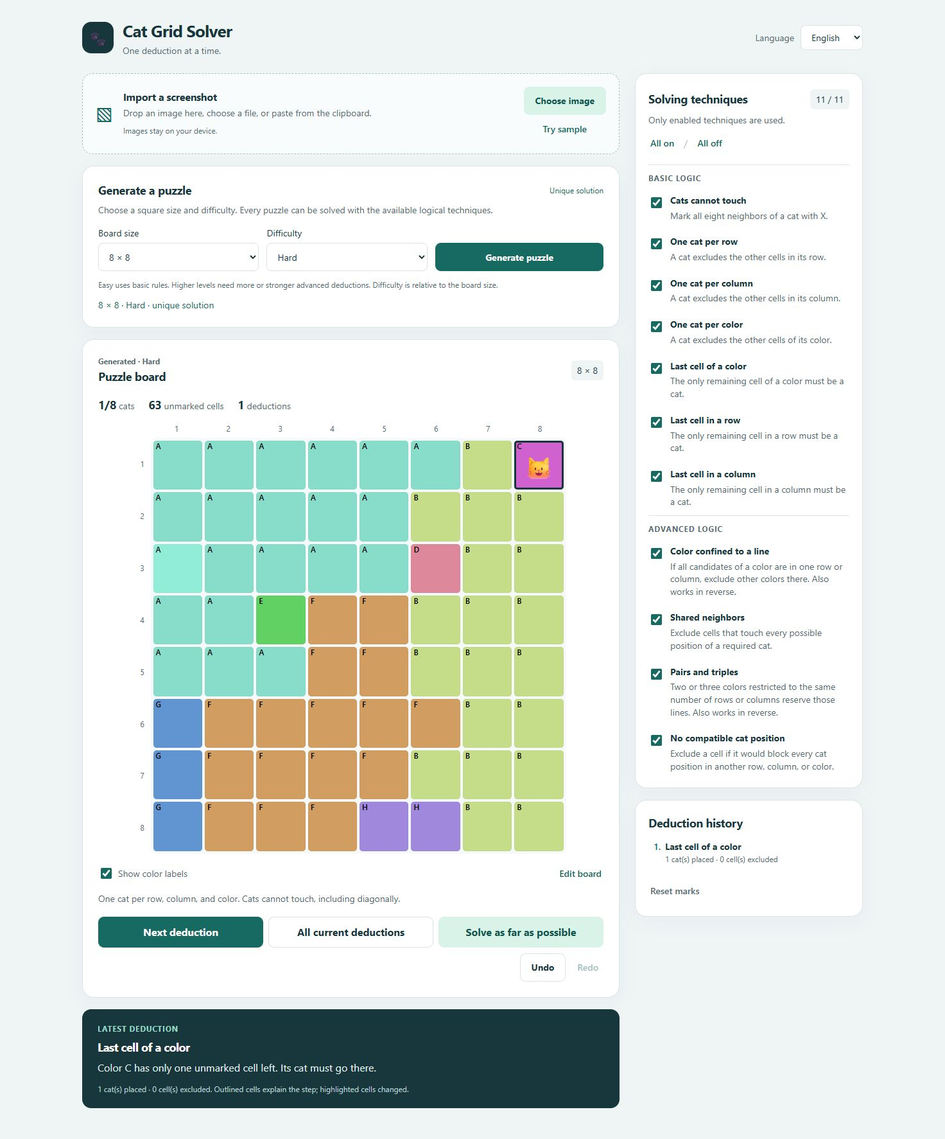
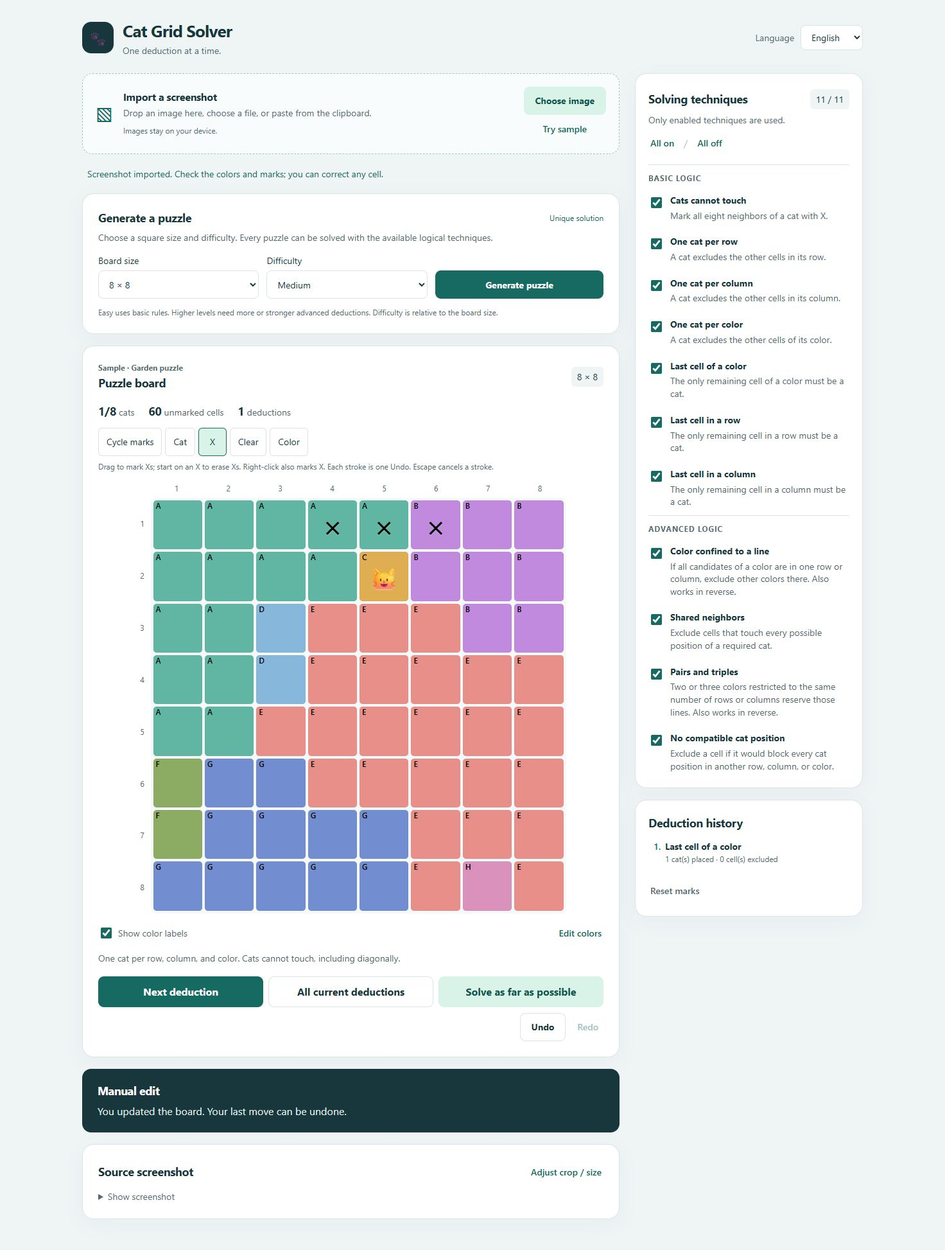
Add drag marking and visible board input tools

diff --git a/dist/app.js b/dist/app.js
@@ -2,6 +2,7 @@ import { example, cloneBoard } from './example.js';
 import { techniques, findNextDeduction, applyDeduction, validateBoard, resolveCurrent, resolveUntilStuck } from './solver.js';
 import { translate, colorLetter, unitName, explain } from './i18n.js';
 import { registerAgentTools } from './webmcp.js';
+import { cellsAlongSegment, applyBrush } from './board-input.js';
 
 const $ = selector => document.querySelector(selector);
 let language = 'en';
@@ -16,6 +17,7 @@ let editing = false, tool = 'cycle', selectedColor = 0, uncertain = new Set();
 let undoStack = [], redoStack = [], source = null, busy = false;
 let generationTask = null;
 let cropSelection = null, cropStart = null;
+let pointerStroke = null, strokeFrame = null;
 const t = (key, values) => translate(language, key, values);
 const techniqueName = id => techniques.find(technique => technique.id === id)?.name[language === 'de' ? 1 : 0] || id;
 
@@ -65,30 +67,33 @@ function setGenerationStatus(key, values = {}, error = false) {
 }
 
 function renderBoard() {
+  const shownBoard = pointerStroke?.draft || board;
   const activeCell = document.activeElement?.dataset?.index;
   const element = $('#board');
-  element.style.setProperty('--size', board.size);
+  element.style.setProperty('--size', shownBoard.size);
+  element.classList.toggle('is-dragging', Boolean(pointerStroke?.dragging));
   element.classList.toggle('no-labels', !$('#color-labels').checked);
   element.setAttribute('aria-label', t('board'));
-  element.setAttribute('aria-rowcount', board.size);
-  element.setAttribute('aria-colcount', board.size);
+  element.setAttribute('aria-rowcount', shownBoard.size);
+  element.setAttribute('aria-colcount', shownBoard.size);
   const changes = new Set(currentStep?.changes.map(change => change.index) || []);
   const evidence = new Set(currentStep?.evidence || []);
-  const validation = validateBoard(board);
+  const validation = validateBoard(shownBoard);
   const conflictCells = new Set(validation.valid ? [] : validation.cells);
   element.replaceChildren();
-  for (let rowIndex = 0; rowIndex < board.size; rowIndex++) {
+  for (let rowIndex = 0; rowIndex < shownBoard.size; rowIndex++) {
     const row = document.createElement('div'); row.className = 'board-row'; row.setAttribute('role','row');
-    for (let columnIndex = 0; columnIndex < board.size; columnIndex++) {
-      const i = rowIndex * board.size + columnIndex, region = board.regions[i], mark = board.marks[i];
+    for (let columnIndex = 0; columnIndex < shownBoard.size; columnIndex++) {
+      const i = rowIndex * shownBoard.size + columnIndex, region = shownBoard.regions[i], mark = shownBoard.marks[i];
       const cell = document.createElement('button');
       cell.type = 'button'; cell.className = 'cell'; cell.dataset.index = i;
-      cell.style.setProperty('--cell-color', board.colors[region]);
-      cell.style.setProperty('--cell-ink', textInk(board.colors[region]));
+      cell.style.setProperty('--cell-color', shownBoard.colors[region]);
+      cell.style.setProperty('--cell-ink', textInk(shownBoard.colors[region]));
       cell.setAttribute('role', 'gridcell'); cell.setAttribute('aria-rowindex', rowIndex + 1); cell.setAttribute('aria-colindex', columnIndex + 1);
       cell.setAttribute('aria-label', `${t('cell', { r: rowIndex + 1, c: columnIndex + 1 })}, ${t('colorName', { n: colorLetter(region) })}, ${t(mark === 1 ? 'catMark' : mark === -1 ? 'xMark' : 'emptyMark')}`);
       cell.tabIndex = activeCell != null ? (Number(activeCell) === i ? 0 : -1) : i === 0 ? 0 : -1;
       cell.classList.toggle('changed', changes.has(i)); cell.classList.toggle('evidence', evidence.has(i) && !changes.has(i));
+      cell.classList.toggle('drag-preview', Boolean(pointerStroke?.changed.has(i)));
       cell.classList.toggle('uncertain', uncertain.has(i)); cell.classList.toggle('conflict', conflictCells.has(i));
       const label = document.createElement('span'); label.className = 'color-letter'; label.textContent = colorLetter(region); label.setAttribute('aria-hidden','true');
       const symbol = document.createElement('span'); symbol.className = `mark${mark === -1 ? ' x-mark' : ''}`; symbol.textContent = mark === 1 ? '🐱' : mark === -1 ? '×' : ''; symbol.setAttribute('aria-hidden','true');
@@ -97,8 +102,8 @@ function renderBoard() {
     element.append(row);
   }
   for (const selector of ['#row-labels', '#column-labels']) {
-    const labels = $(selector); labels.style.setProperty('--size', board.size); labels.replaceChildren();
-    for (let i = 1; i <= board.size; i++) { const label = document.createElement('span'); label.textContent = i; labels.append(label); }
+    const labels = $(selector); labels.style.setProperty('--size', shownBoard.size); labels.replaceChildren();
+    for (let i = 1; i <= shownBoard.size; i++) { const label = document.createElement('span'); label.textContent = i; labels.append(label); }
   }
   if (activeCell != null) element.querySelector(`[data-index="${activeCell}"]`)?.focus({ preventScroll: true });
 }
@@ -120,11 +125,13 @@ function renderTechniques() {
 }
 
 function renderTools() {
+  const hintKey = {cat:'catInputHint',erase:'clearInputHint',paint:'colorInputHint'}[tool] || 'inputHint';
+  $('#input-help').dataset.i18n = hintKey; $('#input-help').textContent = t(hintKey);
   $('#edit-toggle').setAttribute('aria-expanded', editing);
   $('#edit-panel').hidden = !editing;
   $('#tools').replaceChildren();
   for (const [id, key] of [['cycle','cycle'],['cat','catTool'],['x','xTool'],['erase','erase'],['paint','paint']]) {
-    const button = document.createElement('button'); button.className = 'tool-button'; button.dataset.tool = id; button.textContent = t(key); button.setAttribute('aria-pressed', tool === id); $('#tools').append(button);
+    const button = document.createElement('button'); button.type = 'button'; button.className = 'tool-button'; button.dataset.tool = id; button.textContent = t(key); button.setAttribute('aria-pressed', tool === id); button.disabled = busy; $('#tools').append(button);
   }
   $('#palette').hidden = tool !== 'paint'; $('#palette').replaceChildren();
   board.colors.forEach((color, index) => {
@@ -203,6 +210,7 @@ function render() {
 }
 
 async function generateGame(options = {}) {
+  cancelStroke();
   if (busy) return {status:'busy'};
   const size = options.size ?? Number($('#generator-size').value), difficulty = options.difficulty ?? $('#generator-difficulty').value;
   if (!Number.isInteger(size) || size < 4 || size > 20 || !['easy','medium','hard','extreme'].includes(difficulty)) {
@@ -237,6 +245,7 @@ async function generateGame(options = {}) {
 }
 
 function nextDeduction() {
+  cancelStroke();
   if (busy) return { status: 'busy' };
   if (uncertain.size) {
     message = { title: 'reviewTitle', body: 'uncertain', values: { count: uncertain.size } }; currentStep = null; render(); return { status: 'review', count: uncertain.size };
@@ -250,6 +259,7 @@ function nextDeduction() {
 }
 
 async function applyDeductions(mode = 'current') {
+  cancelStroke();
   if (busy) return { status: 'busy' };
   if (uncertain.size || !enabled.size) return nextDeduction();
   busy = true; setStatus(mode === 'until' ? 'runWorking' : 'allWorking'); render();
@@ -269,8 +279,9 @@ async function applyDeductions(mode = 'current') {
 
 function editCell(index, forcedTool) {
   if (busy || !Number.isInteger(index) || index < 0 || index >= board.marks.length) return;
-  const currentTool = forcedTool || (editing ? tool : 'cycle');
-  const nextMark = currentTool === 'cycle' ? board.marks[index] === 0 ? 1 : board.marks[index] === 1 ? -1 : 0 : currentTool === 'cat' ? 1 : currentTool === 'x' ? -1 : 0;
+  const currentTool = forcedTool || tool;
+  if (currentTool === 'x' && !forcedTool && board.marks[index] === 1) return;
+  const nextMark = currentTool === 'cycle' ? board.marks[index] === 0 ? 1 : board.marks[index] === 1 ? -1 : 0 : currentTool === 'cat' ? 1 : currentTool === 'x' ? !forcedTool && board.marks[index] === -1 ? 0 : -1 : 0;
   if (currentTool === 'paint' ? board.regions[index] === selectedColor : board.marks[index] === nextMark && !uncertain.has(index)) return;
   record({ manual: true }); board = cloneBoard(board);
   if (currentTool === 'paint') {
@@ -281,10 +292,12 @@ function editCell(index, forcedTool) {
 }
 
 function undo() {
+  if (pointerStroke) { cancelStroke(); return true; }
   if (busy || !undoStack.length) return false;
   const entry = undoStack.pop(); redoStack.push({ state: snapshot(), entry }); restore(entry.before); render(); return true;
 }
 function redo() {
+  cancelStroke();
   if (busy || !redoStack.length) return false;
   const entry = redoStack.pop(); undoStack.push(entry.entry); restore(entry.state); render(); return true;
 }
@@ -305,16 +318,97 @@ $('#technique-list').addEventListener('change', event => {
   persistTechniques(); message = null; renderTechniques(); renderDeduction();
 });
 for (const [id, on] of [['all-on',true],['all-off',false]]) $(`#${id}`).addEventListener('click', () => { enabled = new Set(on ? techniques.map(technique => technique.id) : []); persistTechniques(); message = null; renderTechniques(); renderDeduction(); });
-$('#edit-toggle').addEventListener('click', () => { editing = !editing; renderTools(); });
-$('#tools').addEventListener('click', event => { const button = event.target.closest('[data-tool]'); if (button) { tool = button.dataset.tool; renderTools(); } });
+$('#edit-toggle').addEventListener('click', () => { editing = !editing; tool = editing ? 'paint' : 'cycle'; renderTools(); });
+$('#tools').addEventListener('click', event => { const button = event.target.closest('[data-tool]'); if (button && !busy) { tool = button.dataset.tool; editing = tool === 'paint'; renderTools(); } });
 $('#palette').addEventListener('click', event => {
   if(busy)return;
   const button = event.target.closest('[data-color]'); if (button) { selectedColor = Number(button.dataset.color); renderTools(); }
   if(event.target.closest('[data-add-color]')) { const color=$('#new-color').value;record({manual:true});board=cloneBoard(board);selectedColor=board.colors.length;board.colors.push(color);currentStep=null;message={title:'manualTitle',body:'manual'};render(); }
 });
 $('#color-labels').addEventListener('change', renderBoard);
-$('#board').addEventListener('click', event => { const cell = event.target.closest('[data-index]'); if (cell) editCell(Number(cell.dataset.index)); });
+// Pointer gestures handle mouse, pen, and touch. Keep native keyboard/AT clicks.
+$('#board').addEventListener('click', event => { const cell = event.target.closest('[data-index]'); if (cell && event.detail === 0) editCell(Number(cell.dataset.index)); });
+$('#board').addEventListener('contextmenu', event => event.preventDefault());
+$('#board').addEventListener('dragstart', event => event.preventDefault());
+
+function point(event) { return {x:event.clientX,y:event.clientY}; }
+function cellAtPoint(position,rectangles) {
+  return rectangles.find(cell => position.x>=cell.left && position.x<=cell.right && position.y>=cell.top && position.y<=cell.bottom)?.index;
+}
+function previewStroke(indices) {
+  if (!pointerStroke?.brush) return;
+  const fresh = indices.filter(index => !pointerStroke.visited.has(index));
+  if (!fresh.length) return;
+  fresh.forEach(index => pointerStroke.visited.add(index));
+  const result = applyBrush(pointerStroke.draft,fresh,pointerStroke.brush);
+  pointerStroke.draft = result.board;
+  result.changed.forEach(index => pointerStroke.changed.add(index));
+  result.reviewed.forEach(index => pointerStroke.reviewed.add(index));
+  if (strokeFrame === null) strokeFrame = requestAnimationFrame(() => { strokeFrame = null; renderBoard(); });
+}
+function releaseStroke(stroke) {
+  if (strokeFrame !== null) { cancelAnimationFrame(strokeFrame); strokeFrame = null; }
+  const grid = $('#board');
+  if (grid.hasPointerCapture(stroke.pointerId)) grid.releasePointerCapture(stroke.pointerId);
+}
+function cancelStroke() {
+  if (!pointerStroke) return;
+  const stroke = pointerStroke; pointerStroke = null; releaseStroke(stroke); renderBoard();
+}
+$('#board').addEventListener('pointerdown', event => {
+  const cell = event.target.closest('[data-index]');
+  if (!cell || busy || pointerStroke || !event.isPrimary || ![0,2].includes(event.button)) return;
+  event.preventDefault();
+  const index = Number(cell.dataset.index), selectedTool = event.button === 2 ? 'x' : tool;
+  const brush = ['x','erase','paint'].includes(selectedTool) ? {tool:selectedTool,value:board.marks[index]===-1?0:-1,color:selectedColor} : null;
+  const rectangles = [...$('#board').querySelectorAll('.cell')].map(element => {
+    const rect = element.getBoundingClientRect();
+    return {index:Number(element.dataset.index),left:rect.left,right:rect.right,top:rect.top,bottom:rect.bottom};
+  });
+  pointerStroke = {pointerId:event.pointerId,tool:selectedTool,start:index,from:point(event),last:point(event),rectangles,brush,draft:board,visited:new Set(),changed:new Set(),reviewed:new Set(),dragging:false};
+  $('#board').querySelectorAll('.cell').forEach(element => { element.tabIndex = element === cell ? 0 : -1; });
+  cell.focus({preventScroll:true});
+  $('#board').setPointerCapture(event.pointerId);
+  if (brush) previewStroke([index]);
+});
+function moveStroke(event) {
+  const stroke = pointerStroke;
+  if (!stroke || event.pointerId !== stroke.pointerId) return;
+  const position = point(event);
+  if (!stroke.dragging && Math.hypot(position.x-stroke.from.x,position.y-stroke.from.y)>=8) {
+    stroke.dragging = true;
+    if (stroke.tool === 'cycle') {
+      stroke.brush = {tool:'x',value:board.marks[stroke.start]===-1?0:-1};
+      previewStroke([stroke.start]);
+    }
+  }
+  if (stroke.brush) previewStroke(cellsAlongSegment(stroke.last,position,stroke.rectangles));
+  stroke.last = position;
+  if (stroke.dragging && event.type === 'pointermove' && event.cancelable) event.preventDefault();
+}
+document.addEventListener('pointermove', moveStroke);
+document.addEventListener('pointerup', event => {
+  const stroke = pointerStroke;
+  if (!stroke || event.pointerId !== stroke.pointerId) return;
+  moveStroke(event);
+  pointerStroke = null; releaseStroke(stroke);
+  if (stroke.brush) {
+    const reviewed = [...stroke.reviewed].filter(index => uncertain.has(index));
+    if (stroke.changed.size || reviewed.length) {
+      record({manual:true}); board = stroke.draft;
+      reviewed.forEach(index => uncertain.delete(index));
+      currentStep = null; message = {title:'manualTitle',body:'manual'};
+    }
+    render();
+  } else if (!stroke.dragging && cellAtPoint(point(event),stroke.rectangles) === stroke.start) editCell(stroke.start,stroke.tool);
+  else renderBoard();
+});
+document.addEventListener('pointercancel', event => { if (event.pointerId === pointerStroke?.pointerId) cancelStroke(); });
+$('#board').addEventListener('lostpointercapture', event => { if (event.pointerId === pointerStroke?.pointerId) cancelStroke(); });
+window.addEventListener('blur', cancelStroke);
+window.addEventListener('scroll', cancelStroke, true);
 $('#board').addEventListener('keydown', event => {
+  if (pointerStroke) return;
   const cell = event.target.closest('[data-index]'); if (!cell) return;
   const index = Number(cell.dataset.index), r = Math.floor(index / board.size), c = index % board.size;
   const destination = { ArrowLeft: r * board.size + Math.max(0,c-1), ArrowRight: r * board.size + Math.min(board.size-1,c+1), ArrowUp: Math.max(0,r-1)*board.size+c, ArrowDown: Math.min(board.size-1,r+1)*board.size+c }[event.key];
@@ -322,6 +416,7 @@ $('#board').addEventListener('keydown', event => {
   else if ([' ','c','C','x','X','Delete','Backspace'].includes(event.key)) { event.preventDefault(); editCell(index, event.key === ' ' ? 'cycle' : ['c','C'].includes(event.key) ? 'cat' : ['x','X'].includes(event.key) ? 'x' : 'erase'); }
 });
 document.addEventListener('keydown', event => {
+  if (event.key === 'Escape' && pointerStroke) { event.preventDefault(); cancelStroke(); return; }
   if ((event.ctrlKey || event.metaKey) && event.key.toLowerCase() === 'z' && !event.target.matches('input,textarea,select') && !document.querySelector('dialog[open]')) { event.preventDefault(); event.shiftKey ? redo() : undo(); }
 });
 $('#reset').addEventListener('click', () => $('#reset-dialog').showModal());
@@ -329,6 +424,7 @@ $('#reset-confirm').addEventListener('click', () => { record({ reset: true }); b
 
 // Image recognition is loaded only when importing; no server receives image data.
 async function importImage(input, sample = false, crop = null, forcedSize = 0) {
+  cancelStroke();
   if (busy) return;
   if (input instanceof File && (!/^image\/(png|jpeg|webp)$/.test(input.type))) { setStatus('fileError', {}, true); return; }
   if (input instanceof Blob && input.size > 25 * 1024 * 1024) { setStatus('tooLarge', {}, true); return; }
@@ -403,10 +499,12 @@ export const appActions = {
   read: () => ({ board: cloneBoard(board), enabled: [...enabled], language, uncertain: [...uncertain], validation: validateBoard(board) }),
   next: nextDeduction, all: () => applyDeductions('current'), run: () => applyDeductions('until'), undo, generate: generateGame,
   configure(ids) {
+    cancelStroke();
     if (!Array.isArray(ids) || ids.some(id => !techniques.some(technique => technique.id === id))) throw new Error('Unknown technique');
     enabled = new Set(ids); persistTechniques(); render(); return { enabled: [...enabled] };
   },
   edit(cells) {
+    cancelStroke();
     if (!Array.isArray(cells) || cells.some(cell => !Number.isInteger(cell.index) || cell.index < 0 || cell.index >= board.marks.length || ![0,1,-1].includes(cell.mark))) throw new Error('Invalid cell edit');
     if (busy) throw new Error('Image import in progress');
     record({ manual: true }); board = cloneBoard(board);

diff --git a/dist/i18n.js b/dist/i18n.js
@@ -12,10 +12,12 @@ export const copy = {
     explanation: 'Latest deduction', evidence: 'Outlined cells explain the step; highlighted cells changed.',
     stuckTitle: 'No deduction available', stuck: 'The enabled techniques cannot make progress. Enable more techniques or check the imported board. No guessing is used.',
     offTitle: 'Choose a technique', off: 'Enable at least one solving technique to continue.', solvedTitle: 'Every cat has a home!', solved: 'The board satisfies all three rules.',
-    edit: 'Edit board', editing: 'Editing board', cycle: 'Cycle marks', catTool: 'Cat', xTool: 'X', erase: 'Clear', paint: 'Color', color: 'Color', labels: 'Show color labels',
+    edit: 'Edit colors', editing: 'Editing board', cycle: 'Cycle marks', catTool: 'Cat', xTool: 'X', erase: 'Clear', paint: 'Color', color: 'Color', labels: 'Show color labels',
+    inputTools: 'Board input tools', inputHint: 'Drag to mark Xs; start on an X to erase Xs. Right-click also marks X. Each stroke is one Undo. Escape cancels a stroke.',
+    catInputHint: 'Click or tap to place a cat. Dragging does not place extra cats. Right-click marks X.', clearInputHint: 'Drag or swipe to clear marks, including cats. Each stroke is one Undo. Escape cancels a stroke.', colorInputHint: 'Choose a color below, then drag or swipe to paint its region. Each stroke is one Undo. Escape cancels a stroke.',
     rules: 'One cat per row, column, and color. Cats cannot touch, including diagonally.',
     manualTitle: 'Manual edit', manual: 'You updated the board. Your last move can be undone.',
-    invalidTitle: 'Check the board', invalidBoard: 'The board data is invalid.', colorCount: 'Expected {expected} colors, but found {count}. Use Edit board to correct the color regions.', catConflict: 'Two cats share a row, column, or color, or touch each other. Correct the highlighted cats.', noCandidate: '{unit} has no legal position left for a cat. Check X marks and nearby cats.',
+    invalidTitle: 'Check the board', invalidBoard: 'The board data is invalid.', colorCount: 'Expected {expected} colors, but found {count}. Use Edit colors to correct the color regions.', catConflict: 'Two cats share a row, column, or color, or touch each other. Correct the highlighted cats.', noCandidate: '{unit} has no legal position left for a cat. Check X marks and nearby cats.',
     changed: '{cats} cat(s) placed · {crosses} cell(s) excluded', row: 'Row {n}', column: 'Column {n}', region: 'Color {n}', cell: 'row {r}, column {c}', emptyMark: 'empty', catMark: 'cat', xMark: 'X',
     touch: 'The cat at {cell} rules out all neighboring cells, including diagonals.',
     catUnit: 'There is already a cat in {unit}. Every other cell in it must be X.',
@@ -46,10 +48,12 @@ export const copy = {
     explanation: 'Letzter Lösungsschritt', evidence: 'Umrandete Felder erklären den Schritt; hervorgehobene Felder wurden geändert.',
     stuckTitle: 'Kein Lösungsschritt verfügbar', stuck: 'Die aktiven Techniken kommen nicht weiter. Aktiviere weitere Techniken oder prüfe das importierte Feld. Es wird nicht geraten.',
     offTitle: 'Technik auswählen', off: 'Aktiviere mindestens eine Lösungstechnik, um fortzufahren.', solvedTitle: 'Jede Katze hat ein Zuhause!', solved: 'Das Spielfeld erfüllt alle drei Regeln.',
-    edit: 'Spielfeld bearbeiten', editing: 'Spielfeld bearbeiten', cycle: 'Markierung wechseln', catTool: 'Katze', xTool: 'X', erase: 'Leeren', paint: 'Farbe', color: 'Farbe', labels: 'Farbbuchstaben anzeigen',
+    edit: 'Farben bearbeiten', editing: 'Spielfeld bearbeiten', cycle: 'Markierung wechseln', catTool: 'Katze', xTool: 'X', erase: 'Leeren', paint: 'Farbe', color: 'Farbe', labels: 'Farbbuchstaben anzeigen',
+    inputTools: 'Eingabewerkzeuge für das Spielfeld', inputHint: 'Ziehen markiert X; starte auf einem X, um X zu entfernen. Rechtsklick setzt ebenfalls X. Ein Zug ist ein Rückgängig-Schritt. Escape bricht einen Zug ab.',
+    catInputHint: 'Klicken oder Tippen setzt eine Katze. Ziehen setzt keine weiteren Katzen. Rechtsklick markiert X.', clearInputHint: 'Ziehen oder Wischen entfernt Markierungen, auch Katzen. Ein Zug ist ein Rückgängig-Schritt. Escape bricht einen Zug ab.', colorInputHint: 'Wähle unten eine Farbe und male ihre Fläche durch Ziehen oder Wischen. Ein Zug ist ein Rückgängig-Schritt. Escape bricht einen Zug ab.',
     rules: 'Eine Katze pro Zeile, Spalte und Farbe. Katzen dürfen sich nicht berühren, auch nicht diagonal.',
     manualTitle: 'Manuelle Änderung', manual: 'Du hast das Feld geändert. Die letzte Änderung kannst du rückgängig machen.',
-    invalidTitle: 'Spielfeld prüfen', invalidBoard: 'Die Daten des Spielfelds sind ungültig.', colorCount: 'Es werden {expected} Farben erwartet, aber {count} wurden erkannt. Korrigiere die Farbflächen über „Spielfeld bearbeiten“.', catConflict: 'Zwei Katzen teilen eine Zeile, Spalte oder Farbe oder berühren sich. Korrigiere die hervorgehobenen Katzen.', noCandidate: '{unit} hat keinen gültigen Platz für eine Katze mehr. Prüfe X-Markierungen und benachbarte Katzen.',
+    invalidTitle: 'Spielfeld prüfen', invalidBoard: 'Die Daten des Spielfelds sind ungültig.', colorCount: 'Es werden {expected} Farben erwartet, aber {count} wurden erkannt. Korrigiere die Farbflächen über „Farben bearbeiten“.', catConflict: 'Zwei Katzen teilen eine Zeile, Spalte oder Farbe oder berühren sich. Korrigiere die hervorgehobenen Katzen.', noCandidate: '{unit} hat keinen gültigen Platz für eine Katze mehr. Prüfe X-Markierungen und benachbarte Katzen.',
     changed: '{cats} Katze(n) gesetzt · {crosses} Feld(er) ausgeschlossen', row: 'Zeile {n}', column: 'Spalte {n}', region: 'Farbe {n}', cell: 'Zeile {r}, Spalte {c}', emptyMark: 'leer', catMark: 'Katze', xMark: 'X',
     touch: 'Die Katze in {cell} schließt alle benachbarten Felder aus, auch diagonal.',
     catUnit: 'In {unit} steht bereits eine Katze. Alle anderen Felder darin müssen X sein.',

diff --git a/dist/index.html b/dist/index.html
@@ -36,9 +36,10 @@
       <section class="board-card" aria-labelledby="board-title">
         <div class="board-header"><div><p class="eyebrow" id="board-name">Sample · Garden puzzle</p><h2 id="board-title" data-i18n="board">Puzzle board</h2></div><span class="size-badge" id="board-size">8 × 8</span></div>
         <div class="stats" id="stats"></div>
+        <div class="input-bar"><div class="tool-buttons" id="tools" role="group" aria-label="Board input tools" data-i18n-aria="inputTools"></div><p class="small-help" id="input-help" data-i18n="inputHint">Drag to mark Xs; start on an X to erase Xs. Right-click also marks X. Each stroke is one Undo.</p></div>
         <div class="board-wrap"><div class="column-labels" id="column-labels" aria-hidden="true"></div><div class="row-labels" id="row-labels" aria-hidden="true"></div><div class="board" id="board" role="grid" aria-label="Puzzle board"></div></div>
-        <div class="board-footer"><label class="compact-check"><input id="color-labels" type="checkbox" checked><span data-i18n="labels">Show color labels</span></label><button class="text-button" id="edit-toggle" aria-expanded="false" data-i18n="edit">Edit board</button></div>
-        <div class="edit-panel" id="edit-panel" hidden><div class="tool-buttons" id="tools"></div><div class="palette" id="palette" hidden></div><p class="small-help" data-i18n="helpKeyboard">Arrow keys move between cells. Space cycles a mark. C places a cat, X excludes a cell, Delete clears it.</p></div>
+        <div class="board-footer"><label class="compact-check"><input id="color-labels" type="checkbox" checked><span data-i18n="labels">Show color labels</span></label><button class="text-button" id="edit-toggle" aria-expanded="false" data-i18n="edit">Edit colors</button></div>
+        <div class="edit-panel" id="edit-panel" hidden><div class="palette" id="palette" hidden></div><p class="small-help" data-i18n="helpKeyboard">Arrow keys move between cells. Space cycles a mark. C places a cat, X excludes a cell, Delete clears it.</p></div>
         <p class="rule-line" data-i18n="rules">One cat per row, column, and color. Cats cannot touch, including diagonally.</p>
         <div class="board-actions"><div class="solve-buttons"><button class="button next-button" id="next" data-i18n="next">Next deduction</button><button class="button secondary bulk-button" id="apply-all" data-i18n="applyAll">All current deductions</button><button class="button primary-soft bulk-button" id="run" data-i18n="run">Solve as far as possible</button></div><div class="undo-buttons"><button class="button secondary" id="undo" disabled data-i18n="undo">Undo</button><button class="icon-button" id="redo" disabled data-i18n="redo">Redo</button></div></div>
       </section>

diff --git a/dist/styles.css b/dist/styles.css
@@ -54,6 +54,11 @@ select { border: 1px solid var(--line); background: white; border-radius: 8px; p
 .row-labels { grid-row: 2; display: grid; grid-template-rows: repeat(var(--size,10),1fr); align-items: center; text-align: center; color: var(--muted); font-size: .75rem; }
 .board { display: grid; grid-template-columns: repeat(var(--size,10),1fr); gap: 4px; aspect-ratio: 1; background: #f5f9f9; border-radius: 9px; padding: 4px; width: 100%; container-type: inline-size; }
 .board-row { display: contents; }
+.board { touch-action: none; user-select: none; -webkit-user-select: none; }
+.board.is-dragging .cell { cursor: crosshair; }
+.input-bar { margin: 0 0 14px; }
+.input-bar .small-help { margin-top: 7px; }
+.cell.drag-preview { box-shadow: inset 0 0 0 3px #176a62; }
 .cell { position: relative; border: 0; border-radius: 5px; background: var(--cell-color); aspect-ratio: 1; min-width: 0; padding: 0; display: grid; place-items: center; font-weight: 600; font-size: clamp(1rem,2.6vw,2rem); color: #15343d; transition: filter .15s; box-shadow: inset 0 0 0 1px #00000007; }
 .cell:hover { filter: brightness(1.07); }
 .cell .color-letter { position: absolute; top: 1px; left: 4px; font-size: .75rem; line-height: 1.3; color: var(--cell-ink); pointer-events: none; }
@@ -104,7 +109,7 @@ input[type=checkbox] { width: 17px; height: 17px; accent-color: var(--accent); f
 .reset-button { margin-top: 10px; color: var(--muted); }
 .edit-panel { border-top: 1px solid var(--line); padding-top: 15px; margin-top: 10px; }
 .tool-buttons { display: flex; flex-wrap: wrap; gap: 5px; }
-.tool-button { border: 1px solid var(--line); padding: 6px 12px; background: white; border-radius: 6px; font-size: .875rem; min-height: 38px; }
+.tool-button { border: 1px solid var(--line); padding: 6px 12px; background: white; border-radius: 6px; font-size: .875rem; min-height: 44px; min-width: 44px; }
 .tool-button[aria-pressed=true] { border-color: var(--accent); background: var(--mint); color: #10554d; }
 .palette { display: flex; flex-wrap: wrap; gap: 8px; margin-top: 12px; align-items: center; }
 .swatch { width: 35px; height: 35px; border: 2px solid transparent; border-radius: 6px; background: var(--swatch); font-size: .875rem; color: var(--swatch-ink); }

diff --git a/dist/board-input.js b/dist/board-input.js
@@ -1,0 +1,35 @@
+// Hit every cell crossed by the pointer, including cells between sparse events.
+export function cellsAlongSegment(from,to,rectangles) {
+  const dx=to.x-from.x,dy=to.y-from.y,hits=[];
+  for(const cell of rectangles) {
+    let enter=0,exit=1;
+    for(const [position,delta,min,max] of [[from.x,dx,cell.left+.1,cell.right-.1],[from.y,dy,cell.top+.1,cell.bottom-.1]]) {
+      if(delta===0) { if(position<min||position>max) { enter=2; break; } }
+      else {
+        const a=(min-position)/delta,b=(max-position)/delta;
+        enter=Math.max(enter,Math.min(a,b)); exit=Math.min(exit,Math.max(a,b));
+      }
+    }
+    if(enter<=exit) hits.push({index:cell.index,enter});
+  }
+  return hits.sort((a,b)=>a.enter-b.enter).map(hit=>hit.index);
+}
+
+export function applyBrush(board,indices,brush) {
+  const marks=[...board.marks],regions=[...board.regions],changed=[],reviewed=[];
+  for(const index of new Set(indices)) {
+    if(!Number.isInteger(index)||index<0||index>=marks.length) continue;
+    // Exclusion strokes never replace a cat, including an X-erasing stroke.
+    if(brush.tool==='x'&&marks[index]===1) continue;
+    reviewed.push(index);
+    if(brush.tool==='paint') {
+      if(regions[index]!==brush.color) { regions[index]=brush.color; changed.push(index); }
+    } else {
+      const value=brush.tool==='erase'?0:brush.value;
+      if(marks[index]!==value) { marks[index]=value; changed.push(index); }
+    }
+  }
+  const next={...board,marks,regions};
+  if(brush.tool==='paint'&&changed.length&&board.generation) next.generation={...board.generation,edited:true};
+  return {board:next,changed,reviewed};
+}

diff --git a/README.md b/README.md
@@ -4,7 +4,7 @@ A local browser app that imports colored cat grid puzzle screenshots, generates 
 
 An independent project with an original demo puzzle and generated test images. It is not affiliated with any puzzle app publisher.
 
-![Cat Grid Solver with the Garden puzzle and an explained deduction](preview.jpg)
+![Cat Grid Solver with puzzle generation, input tools, and an explained deduction](preview.jpg)
 
 ## Start
 
@@ -25,7 +25,7 @@ npm start
 
 1. Choose, drop, or paste a PNG, JPEG, or WebP screenshot. **Try sample** imports the original Garden puzzle image through the same recognition pipeline.
 2. Review the detected board. If needed, use **Adjust crop / size** to drag a rectangle around the entire colored grid and select its size. Square grids from 2×2 to 20×20 are supported; puzzles must have a valid solution under the rules below.
-3. Click a cell to cycle between cat, X, and empty. **Edit board** provides explicit mark tools and a color brush. Choose a swatch to correct a region; **Add color** creates a missing color. Amber outlines flag uncertain recognition. Correct those cells before solving.
+3. Click a cell to cycle between cat, X, and empty. The tools above the board select **Cat**, **X**, **Clear**, or **Color** directly. **Edit colors** opens the color palette. Choose a swatch to correct a region; **Add color** creates a missing color. Amber outlines flag uncertain recognition. Correct those cells before solving.
 4. Enable the techniques you want to use, then choose one of the three solve actions:
 
 | Action | Behavior |
@@ -39,6 +39,8 @@ Every batch is one undoable action. **Undo** and **Redo** restore both board mar
 The language selector is always available. Language and technique preferences are remembered on this device. Puzzle work stays in the current tab and is reset on reload. Screenshot pixels are processed on your computer and are never uploaded. The app makes no external network requests.
 
 Arrow keys move between cells. Space cycles a mark, C places a cat, X excludes a cell, and Delete clears it. Ctrl+Z / Cmd+Z undoes a change; add Shift to redo.
+
+Drag across cells to mark Xs, even with **Cycle marks** selected. Start on an X to erase Xs for the entire stroke. Right-click also toggles X and supports dragging. X strokes skip existing cats. Select **Clear** to drag away any marks, including cats; **Color** paints regions by dragging. Re-entering a cell during a stroke does not toggle it again. Mouse, pen, and touch use the same controls, with a live preview. Each finished stroke is one Undo action. Escape or an interrupted gesture cancels the preview. A Cat-tool drag does not stamp multiple cats. Dragging inside the grid marks cells; scroll the page from outside the grid on touch devices.
 
 ## Rules and techniques
 
